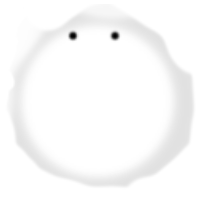
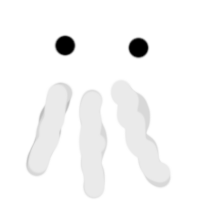
igrata

diff --git a/gamingState.js b/gamingState.js
@@ -1,5 +1,32 @@
 let player, camera = {x: 0, y: 0};
 let currLvl = Levels[0];
+class Clones{
+	constructor(len){
+		this.arr = new Array(len);
+		for(let i=0; i<len; i++){
+			this.arr[i] = {x: Infinity, y: Infinity, angle: Infinity};
+		}
+	}
+	set(last){
+		for(let i=0; i<this.arr.length-1; i++){
+			this.arr[i].x = this.arr[i+1].x;
+			this.arr[i].y = this.arr[i+1].y;
+			this.arr[i].angle = this.arr[i+1].angle;
+		}
+		this.arr[this.arr.length-1].x = last.x;
+		this.arr[this.arr.length-1].y = last.y;
+		this.arr[this.arr.length-1].angle = last.angle;
+	}
+	draw(){
+		for(let i in this.arr){
+			context.save();
+			context.globalAlpha = 0.001*i;
+			coolRotete((this.arr[i].x+player.sx/2)*screenRatio+transX, (this.arr[i].y+player.sy/2)*screenRatio+transY, this.arr[i].angle+Math.PI/2);
+			drawImage(ghost, this.arr[i].x, this.arr[i].y, player.sx, player.sy);
+			context.restore();
+		}
+	}
+}
 class Player {
 	constructor(startPos) {
 		this.x = startPos.x;
@@ -9,6 +36,11 @@ class Player {
 		this.cooldown = 0;
 		this.transAfter = -1;
 		this.ghost = false;
+		this.angle = 0;
+		this.xScreen = (this.x+this.sx/2)*screenRatio+camera.x+transX;
+		this.yScreen = (this.y+this.sy/2)*screenRatio+camera.y+transY;
+		this.speed = this.ghost?0.5:1;
+		this.clones = new Clones(50);
 	}
 	isInCollision() {
 		for(let e of currLvl.objects){
@@ -32,17 +64,24 @@ class Player {
 		if(this.transAfter>0){
 			return 0;
 		}
+		this.speed = !this.ghost?0.5:1;
+		this.xScreen = (this.x+this.sx/2)*screenRatio+camera.x+transX;
+		this.yScreen = (this.y+this.sy/2)*screenRatio+camera.y+transY;
+		this.angle = angleBetween(this.xScreen, this.yScreen, mx, my);
 		this.moveBy({
-			x: isKeyPressed[keyLeft] * -1 + isKeyPressed[keyRight] * 1,
-			y: isKeyPressed[keyUp] * -1 + isKeyPressed[keyDown] * 1,
+			x: Math.cos(this.angle)*clicked*this.speed,//isKeyPressed[keyLeft] * -1 + isKeyPressed[keyRight] * 1,
+			y: Math.sin(this.angle)*clicked*this.speed//isKeyPressed[keyUp] * -1 + isKeyPressed[keyDown] * 1,
 		});
 		if(this.isInCollision()){
 			this.moveBy({
-				x: -(isKeyPressed[keyLeft] * -1 + isKeyPressed[keyRight] * 1),
-				y: -(isKeyPressed[keyUp] * -1 + isKeyPressed[keyDown] * 1),
+				x: -Math.cos(this.angle)*this.speed,//isKeyPressed[keyLeft] * -1 + isKeyPressed[keyRight] * 1,
+				y: -Math.sin(this.angle)*this.speed//isKeyPressed[keyUp] * -1 + isKeyPressed[keyDown] * 1,
 			});
 		}
 		this.cooldown--;
+		if(time%1==0){
+			this.clones.set(this);
+		}
 	}
 	screenF(){
 		context.lineWidth = 5;
@@ -56,13 +95,21 @@ class Player {
 			this.cooldown = Math.max(0, this.cooldown);
 			rect("red", fixedScreenSize.x/2-135/2, 400, this.transAfter*3, 20);
 		}
+		context.fillStyle = "white";
+		// context.fillRect((this.x+this.sx/2)*screenRatio+camera.x+transX, (this.y+this.sy/2)*screenRatio+camera.y+transY, 10, 10);
 	}
 	draw() {
+		if(this.ghost){
+			this.clones.draw();
+		}
+		context.save();
+		coolRotete((this.x+this.sx/2)*screenRatio+transX, (this.y+this.sy/2)*screenRatio+transY, this.angle+Math.PI/2);
 		if(this.ghost){
 			drawImage(ghost, this.x, this.y, this.sx, this.sy);
 		}else{
 			rect("green", this.x, this.y, this.sx, this.sy);
 		}
+		context.restore();
 		// drawImage(circle, this.x, this.y, this.sx, this.sy);
 	}
 }
@@ -114,4 +161,3 @@ function dist(x1, y1, x2, y2) {
 function dist(x1, y1, x2, y2) {
 	return Math.sqrt((x1 - x2) * (x1 - x2) + (y1 - y2) * (y1 - y2));
 }
-// koi? igrata

diff --git a/setup.js b/setup.js
@@ -7,12 +7,16 @@ canvas.width = window.innerWidth;
 const gamingState = 0;
 const mainState = 1;
 const fixedScreenSize = { x: 1000, y: 500 };
-
+let clicked = false;
+let time = 0;
 const isKeyPressed = [];
 for (let i = 0; i < 256; i++) {
 	isKeyPressed[i] = false;
 }
-
+const angleBetween = function(cx, cy, ax, ay){
+	let ox = ax-cx, oy = ay-cy;
+	return Math.atan2(oy, ox);
+}
 const areColliding = function (pos1, pos2) {
 	return (
 		pos2.x <= pos1.x + pos1.sx &&
@@ -21,7 +25,11 @@ const areColliding = function (pos1, pos2) {
 		pos1.y <= pos2.y + pos2.sy
 	);
 };
-
+const coolRotete = function(x, y, angle){
+	context.translate(x, y);
+	context.rotate(angle);
+	context.translate(-x, -y);
+}
 const keyLeft = 65;
 const keyRight = 68;
 const keyUp = 87;

diff --git a/script.js b/script.js
@@ -1,4 +1,5 @@
 function update() {
+	time++;
 	if (State == gamingState) {
 		gamingUpdate();
 	}
@@ -25,6 +26,12 @@ document.addEventListener("keyup", function (e) {
 document.addEventListener("mousemove", function (e) {
 	mx = e.x;
 	my = e.y;
+});
+document.addEventListener("mousedown", function (e) {
+	clicked = true;
+});
+document.addEventListener("mouseup", function (e) {
+	clicked = false;
 });
 draw();
 setInterval(update, 10);

diff --git a/style.css b/style.css
@@ -7,4 +7,5 @@ canvas{
     position: absolute;
     top: 0;
     left: 0;
+    user-select: none;
 }
